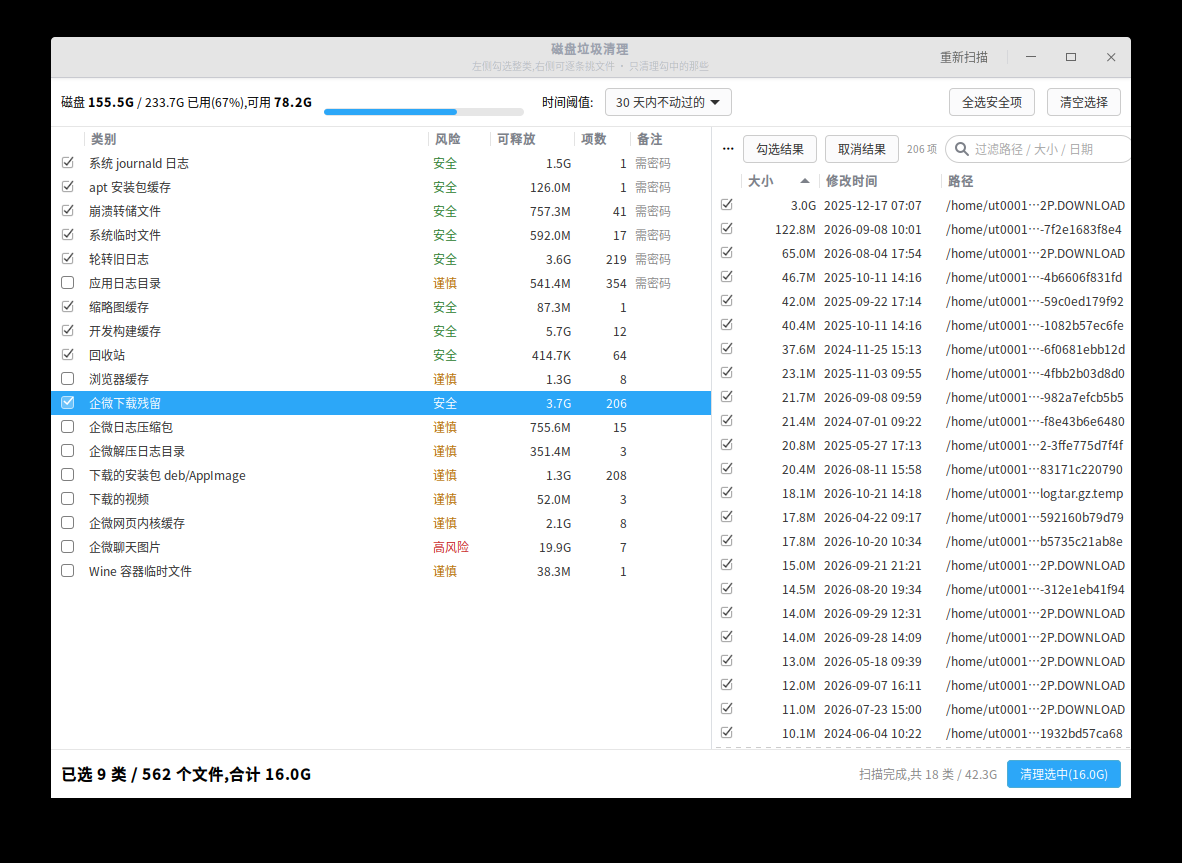
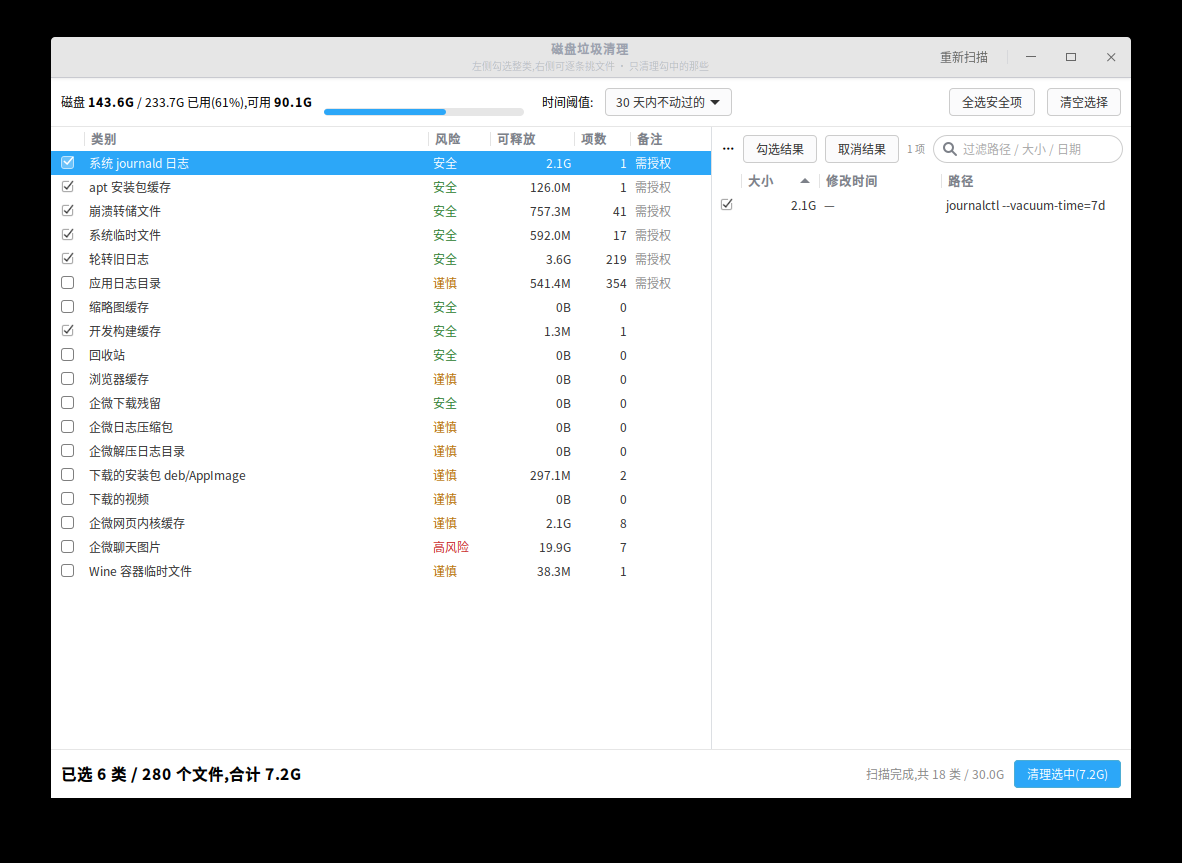
feat: 系统文件改用 pkexec 图形认证,不再弹终端
- 清理时若 sudo 已在免密窗口则直接删除,零打扰
- 否则用 pkexec 弹系统认证框(和装软件同一个框),取消则一个文件都不动
- 备注列改为「需授权」,不再笼统写「需密码」,免密时为空白
- deb 自带 polkit 动作 org.diskcleaner.clean,认证框显示自定义文案
- 只有系统里没有 pkexec 时才退回终端 sudo

diff --git a/README.md b/README.md
@@ -47,6 +47,20 @@ cd disk-cleaner
 
 依赖:Python 3(GTK 界面需要 `python3-gi`,UOS/deepin 自带)。
 
+## 管理员权限:什么时候要密码
+
+只有这五类系统垃圾需要 root:journald 日志、apt 缓存、崩溃转储、`/var/tmp`、`/var/log` 轮转日志。企业微信、下载目录、浏览器缓存、回收站这些都不需要密码,直接删。
+
+需要的时候**不会弹终端**,而是弹系统自己的认证框(和装软件、改系统设置时那个密码框一样),上面写着「清理系统日志与缓存需要管理员权限,请输入当前用户密码」,输的是当前用户的登录密码:
+
+- **输对**:系统文件被删,窗口里直接告诉你删了几个、回收多少
+- **点取消或输错**:退出码 126,系统文件一个都不动;普通文件不受影响(它们此时已经删完了)
+- **刚输过密码**:短时间内再清理不会再问第二次
+
+这个框来自 `pkexec` + 系统的 polkit 服务,动作定义在 `/usr/share/polkit-1/actions/org.diskcleaner.policy`(deb 包自带)。
+
+所以推荐用 deb 安装:源码方式装到 `~/.local` 时程序不在 `/usr/bin`,认不到上面那条 polkit 规则,认证框会退化成系统默认文案(功能一样,只是提示写着「认证以运行 python3」)。只有系统里连 `pkexec` 都没有时,才会退回开终端执行 `sudo`。
+
 ## 打包与分发
 
 ```bash
@@ -103,7 +117,7 @@ diskc --files-from a.json   # 按清单精确删除,GUI 提权清理走这条路
 
 - 删除不进回收站,不可恢复。清理前建议退出企业微信,避免文件占用。
 - 「下载的视频」可能包含工作录屏证据,默认不勾选,清理前请确认。
-- 系统类目需要管理员权限,会转交终端执行 `sudo`。
+- 系统类目需要管理员权限,清理时弹系统认证框输一次密码,不开终端;取消则系统文件不动。
 
 ## 原理
 
